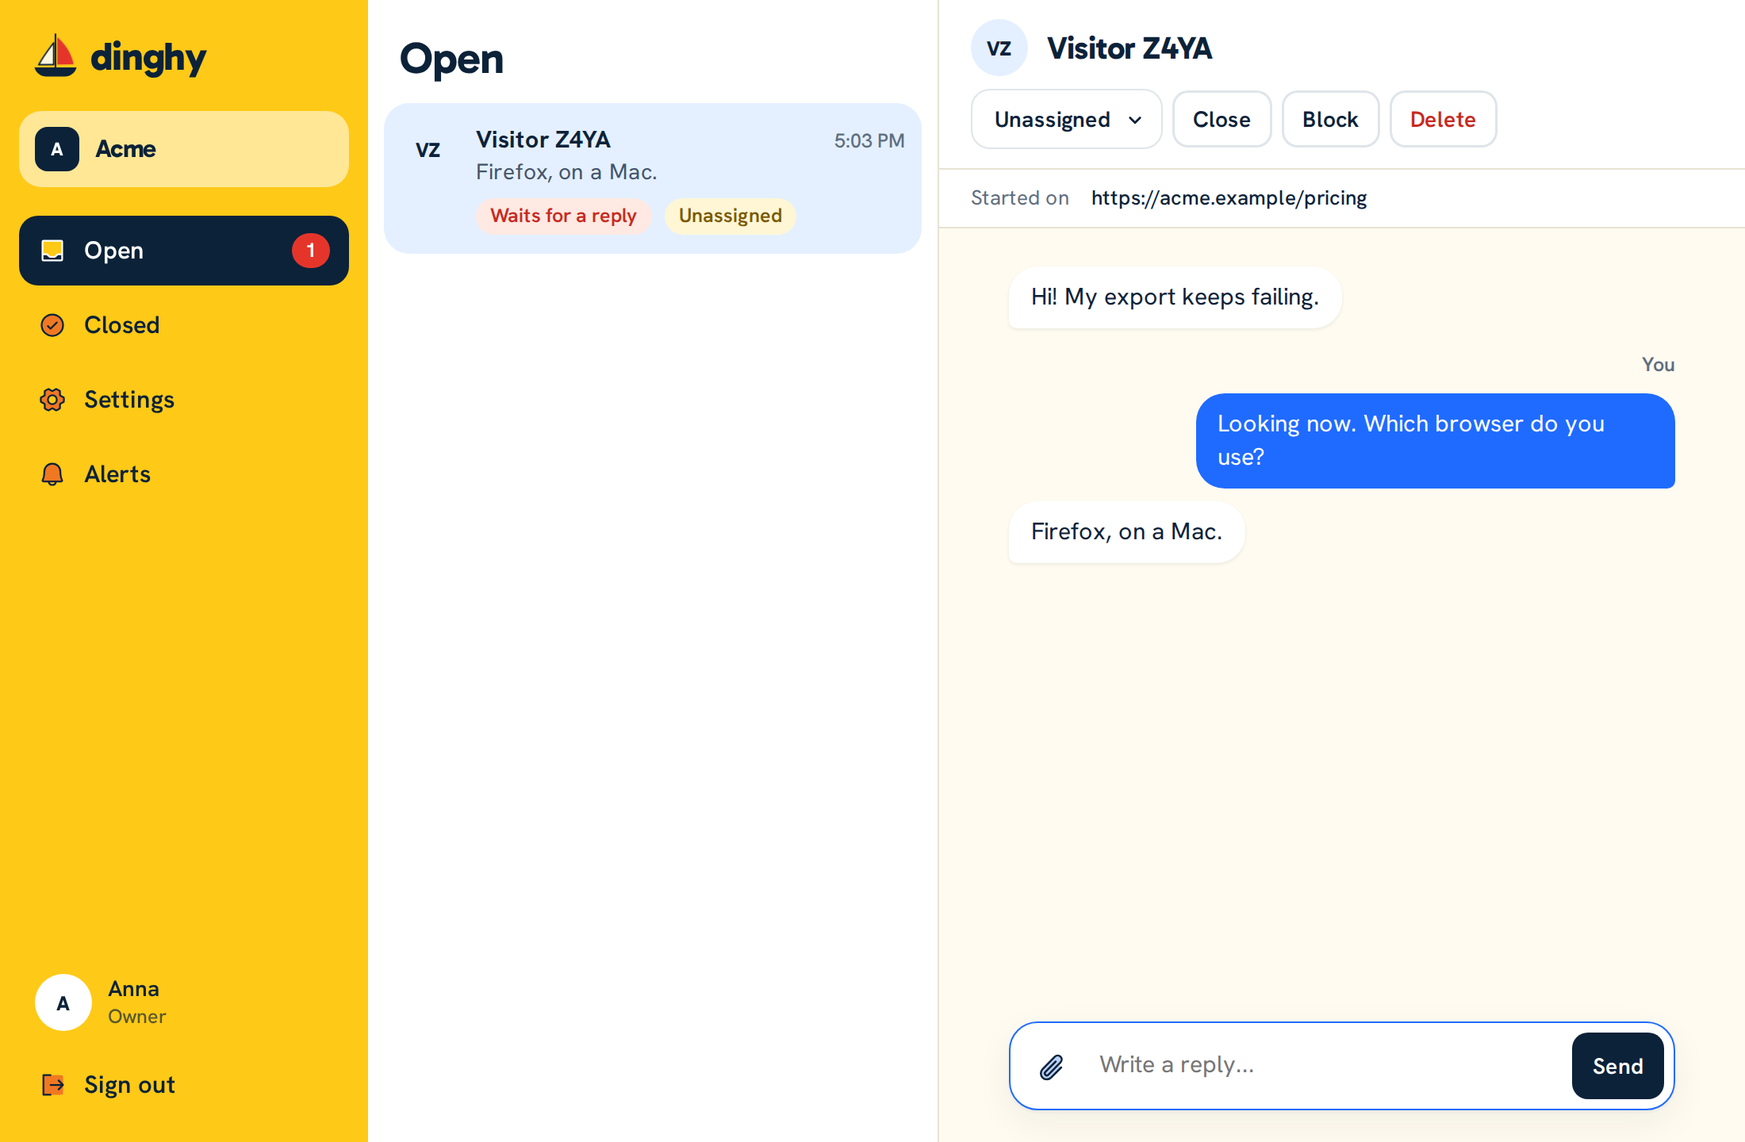
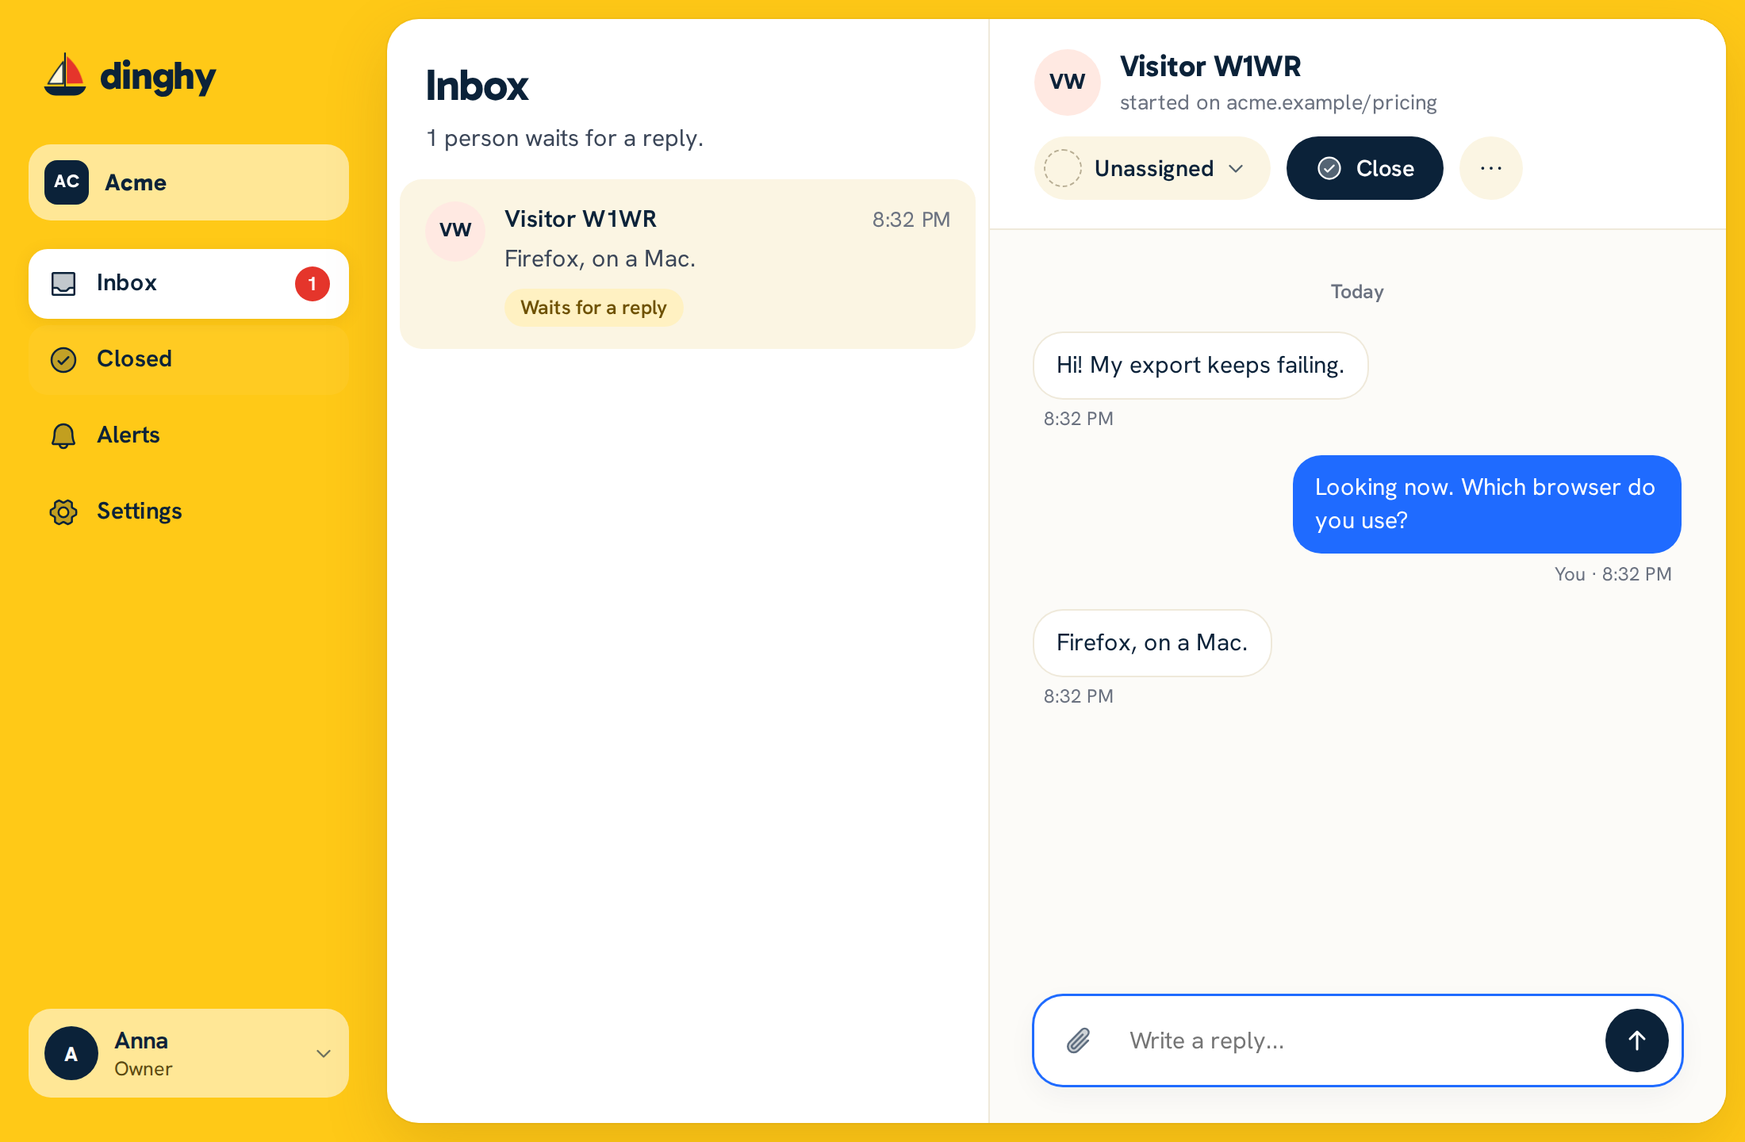
Docs: describe the new screens, with new pictures

diff --git a/site/public/docs/operator-guide.html b/site/public/docs/operator-guide.html
@@ -4,21 +4,21 @@
   <meta charset="utf-8">
   <meta name="viewport" content="width=device-width, initial-scale=1">
   <title>Operator guide: Dinghy docs</title>
-  <meta name="description" content="The operator app is where your team reads and answers chats. Open your Dinghy address in a browser, enter your email, and select Email me a sign-in link. Open the link in the email, and select Sign in to Dinghy. The link works once, for 15 minutes, and only the button uses it, so a mail scanner that opens it first does no harm. Dinghy has no passwords.">
+  <meta name="description" content="The operator app is where your team reads and answers chats. Open your Dinghy address in a browser, enter your email, and select Email me a sign-in link. Open the link in the email, and select Sign in. The link works once, for 15 minutes, and only the button uses it, so a mail scanner that opens it first does no harm. Dinghy has no passwords.">
   <link rel="canonical" href="https://dinghy.chat/docs/operator-guide">
   <meta name="theme-color" content="#ffc917">
   <meta property="og:type" content="website">
   <meta property="og:site_name" content="Dinghy">
   <meta property="og:url" content="https://dinghy.chat/docs/operator-guide">
   <meta property="og:title" content="Operator guide: Dinghy docs">
-  <meta property="og:description" content="The operator app is where your team reads and answers chats. Open your Dinghy address in a browser, enter your email, and select Email me a sign-in link. Open the link in the email, and select Sign in to Dinghy. The link works once, for 15 minutes, and only the button uses it, so a mail scanner that opens it first does no harm. Dinghy has no passwords.">
+  <meta property="og:description" content="The operator app is where your team reads and answers chats. Open your Dinghy address in a browser, enter your email, and select Email me a sign-in link. Open the link in the email, and select Sign in. The link works once, for 15 minutes, and only the button uses it, so a mail scanner that opens it first does no harm. Dinghy has no passwords.">
   <meta property="og:image" content="https://dinghy.chat/og.png">
   <meta property="og:image:width" content="1200">
   <meta property="og:image:height" content="630">
   <meta property="og:image:alt" content="A boat on the water, with the words: Live chat for solo founders and small teams.">
   <meta name="twitter:card" content="summary_large_image">
   <meta name="twitter:title" content="Operator guide: Dinghy docs">
-  <meta name="twitter:description" content="The operator app is where your team reads and answers chats. Open your Dinghy address in a browser, enter your email, and select Email me a sign-in link. Open the link in the email, and select Sign in to Dinghy. The link works once, for 15 minutes, and only the button uses it, so a mail scanner that opens it first does no harm. Dinghy has no passwords.">
+  <meta name="twitter:description" content="The operator app is where your team reads and answers chats. Open your Dinghy address in a browser, enter your email, and select Email me a sign-in link. Open the link in the email, and select Sign in. The link works once, for 15 minutes, and only the button uses it, so a mail scanner that opens it first does no harm. Dinghy has no passwords.">
   <meta name="twitter:image" content="https://dinghy.chat/og.png">
   <link rel="icon" href="/favicon.svg" type="image/svg+xml">
   <link rel="preload" href="/fonts/gabarito-latin-wght-normal.woff2" as="font" type="font/woff2" crossorigin>
@@ -51,7 +51,7 @@
       <div class="docs-grid docs-band-grid">
         <div class="docs-band-text">
           <h1>Use the operator app</h1>
-          <p class="lede">The operator app is where your team reads and answers chats. Open your Dinghy address in a browser, enter your email, and select <strong>Email me a sign-in link</strong>. Open the link in the email, and select <strong>Sign in to Dinghy</strong>. The link works once, for 15 minutes, and only the button uses it, so a mail scanner that opens it first does no harm. Dinghy has no passwords.</p>
+          <p class="lede">The operator app is where your team reads and answers chats. Open your Dinghy address in a browser, enter your email, and select <strong>Email me a sign-in link</strong>. Open the link in the email, and select <strong>Sign in</strong>. The link works once, for 15 minutes, and only the button uses it, so a mail scanner that opens it first does no harm. Dinghy has no passwords.</p>
         </div>
       </div>
       <div class="water docs-water" data-scene="band" aria-hidden="true">
@@ -118,18 +118,18 @@
       <article class="doc">
 <p><img src="/docs/media/inbox.png" width="2200" height="1440" alt="The operator app with a conversation open" loading="lazy"></p>
 <h2 id="answer-a-chat"><a class="heading-link" href="#answer-a-chat">Answer a chat</a></h2>
-<p>New conversations appear in the <strong>Open</strong> list with no reload. Select one to read it, write in the reply box, and press <strong>Send</strong>.</p>
+<p>The sidebar has <strong>Inbox</strong>, <strong>Closed</strong>, <strong>Alerts</strong> and <strong>Settings</strong>. New conversations appear in the <strong>Inbox</strong> with no reload, and the red number counts the people who wait for a reply. Select one to read it, write in the reply box, and press Enter or the send button.</p>
 <p>To send an image, paste it, drag it onto the chat, or select the image button. The rules are the same as for visitors: PNG, JPEG or WebP, under 5 MB and under 16 megapixels.</p>
 <p>If a message shows &quot;Not sent&quot;, select it to try again. A retry cannot create a second copy.</p>
 <p>If two of you open the same conversation, each sees &quot;… is replying&quot;, so you do not answer twice.</p>
-<p>In a conversation, you can also:</p>
+<p>Under the visitor&#39;s name, the header shows their user ID and the page where they started. On the right are the controls:</p>
 <div class="doc-table"><table>
 <thead><tr><th>Control</th><th>What it does</th></tr></thead>
 <tbody>
-<tr><td data-label="Control"><strong>Assign to</strong></td><td data-label="What it does">A list that gives the conversation to one person on your team</td></tr>
+<tr><td data-label="Control">The assignee</td><td data-label="What it does">A list that gives the conversation to one person on your team, or to nobody</td></tr>
 <tr><td data-label="Control"><strong>Close</strong></td><td data-label="What it does">Moves it to the <strong>Closed</strong> list. <strong>Reopen</strong> brings it back. If the visitor writes after a close, this starts a new conversation with no assignee, and the visitor sees one thread</td></tr>
-<tr><td data-label="Control"><strong>Block</strong></td><td data-label="What it does">Stops this visitor from sending messages. <strong>Settings &gt; Blocked visitors</strong>, which appears once someone is blocked, can undo it</td></tr>
-<tr><td data-label="Control"><strong>Delete</strong></td><td data-label="What it does">Deletes the conversation and its images for good. Owners and admins only</td></tr>
+<tr><td data-label="Control"><strong>…</strong> then <strong>Block</strong></td><td data-label="What it does">Stops this visitor from sending messages. <strong>Unblock</strong> in the same place undoes it, and so does <strong>Settings &gt; Data &gt; Blocked visitors</strong></td></tr>
+<tr><td data-label="Control"><strong>…</strong> then <strong>Delete</strong></td><td data-label="What it does">Deletes the conversation and its images for good, after you confirm. Owners and admins only</td></tr>
 </tbody>
 </table></div>
 <p>For a signed-in user, the conversation shows the email and user ID that <a href="/docs/add-to-your-site#show-who-is-chatting">your site sent</a>.</p>
@@ -147,10 +147,12 @@
 </ol>
 <p>On Android and on a computer, you can install the app from the browser&#39;s menu, but it is not necessary.</p>
 <p>A phone can delay or drop a notification, so do not rely on one for urgent work.</p>
+<h2 id="your-profile"><a class="heading-link" href="#your-profile">Your profile</a></h2>
+<p>Select your name at the bottom of the sidebar, then <strong>Profile</strong>, to change the name your teammates see. <strong>Sign out</strong> is in the same menu.</p>
 <h2 id="set-up-your-team"><a class="heading-link" href="#set-up-your-team">Set up your team</a></h2>
 <p><img src="/docs/media/settings.png" width="2200" height="1440" alt="The settings page" loading="lazy"></p>
-<p>Everyone can open <strong>Settings</strong>. An agent sees the team and the blocked visitors, and the other sections are for owners and admins.</p>
-<p>To invite someone, select <strong>Create a link</strong> in <strong>Invite someone</strong>, and send the link to that one person. A link works once and lasts 7 days. The person opens it, and enters a name and an email. Dinghy emails them a link, and selecting <strong>Join your team</strong> on the page it opens creates their account, or uses the one that email already has, joins the workspace and signs them in. Someone who is already signed in selects <strong>Join</strong>. Without a mail server, a new person signs in at once, and nothing checks the email, so send the link only to the person it is for. Someone who already has an account there signs in first, then opens the invite.</p>
+<p>Everyone can open <strong>Settings</strong>. Its tabs are <strong>Team</strong>, <strong>Install</strong>, <strong>Allowed sites</strong>, <strong>Signing secret</strong> and <strong>Data</strong>. An agent sees the team, and the blocked visitors under <strong>Data</strong> once someone is blocked. The other tabs are for owners and admins.</p>
+<p>To invite someone, select <strong>Invite someone</strong> at the top of Settings, pick a role, select <strong>Create invite link</strong>, and send the link to that one person. Pending invites show in the team list until they are used, with the days they have left and <strong>Revoke</strong>. A link works once and lasts 7 days. The person opens it, and enters a name and an email. Dinghy emails them a link, and selecting <strong>Join your team</strong> on the page it opens creates their account, or uses the one that email already has, joins the workspace and signs them in. Someone who is already signed in selects <strong>Join</strong>. Without a mail server, a new person signs in at once, and nothing checks the email, so send the link only to the person it is for. Someone who already has an account there signs in first, then opens the invite.</p>
 <div class="doc-table"><table>
 <thead><tr><th>Role</th><th>Can do</th></tr></thead>
 <tbody>
@@ -159,14 +161,15 @@
 <tr><td data-label="Role"><strong>Owner</strong></td><td data-label="Can do">The above, and invite admins, change roles, and download exports</td></tr>
 </tbody>
 </table></div>
-<p>A workspace needs an owner, so make someone else owner before you leave.</p>
-<p>Someone in two workspaces can switch between them at the top of the app.</p>
+<p>A workspace always keeps an owner. While you are the only one, your role stays <strong>Owner</strong> and you cannot leave: make someone else an owner first.</p>
+<p>Someone in two workspaces switches between them with the workspace name at the top of the sidebar. On Dinghy Cloud, the same menu has <strong>Create a workspace</strong>.</p>
 <h2 id="the-other-settings"><a class="heading-link" href="#the-other-settings">The other settings</a></h2>
 <ul>
-<li><strong>Widget snippet</strong> has the tag for your site.</li>
-<li><strong>Allowed sites</strong> lists the sites that can load the chat.</li>
-<li><strong>Signing secret</strong> is for <a href="/docs/add-to-your-site#show-who-is-chatting">signed-in users</a>.</li>
-<li><strong>Export</strong> downloads all conversations and images as one file, which imports into a self-hosted Dinghy.</li>
+<li><strong>Install</strong> has the tag for your site, with a <strong>Copy</strong> button.</li>
+<li><strong>Allowed sites</strong> lists the sites that can load the chat, one per row. <strong>Add a site</strong> adds a row, and each row says if its address is not a site such as <code>https://example.com</code>.</li>
+<li><strong>Signing secret</strong> is for <a href="/docs/add-to-your-site#show-who-is-chatting">signed-in users</a>. It stays hidden until you select the eye. <strong>Replace the secret</strong> asks first, because the old one stops working at once.</li>
+<li><strong>Data</strong> has <strong>Download an export</strong>, which saves all conversations and images as one file that imports into a self-hosted Dinghy, and <strong>Delete workspace</strong>.</li>
+<li>On Dinghy Cloud, <strong>Team</strong> also shows how many of the plan&#39;s 5 operators and 1 GB of images are in use.</li>
 </ul>
 <h2 id="if-no-sign-in-link-arrives"><a class="heading-link" href="#if-no-sign-in-link-arrives">If no sign-in link arrives</a></h2>
 <p>Check your spam folder, and ask for another link. Each one works once, for 15 minutes, and an email gets at most 20 links an hour.</p>
@@ -181,6 +184,7 @@
         <ol>
           <li><a href="#answer-a-chat">Answer a chat</a></li>
           <li><a href="#get-alerts">Get alerts</a></li>
+          <li><a href="#your-profile">Your profile</a></li>
           <li><a href="#set-up-your-team">Set up your team</a></li>
           <li><a href="#the-other-settings">The other settings</a></li>
           <li><a href="#if-no-sign-in-link-arrives">If no sign-in link arrives</a></li>

diff --git a/docs/operator-guide.md b/docs/operator-guide.md
@@ -1,12 +1,12 @@
 # Use the operator app
 
-The operator app is where your team reads and answers chats. Open your Dinghy address in a browser, enter your email, and select **Email me a sign-in link**. Open the link in the email, and select **Sign in to Dinghy**. The link works once, for 15 minutes, and only the button uses it, so a mail scanner that opens it first does no harm. Dinghy has no passwords.
+The operator app is where your team reads and answers chats. Open your Dinghy address in a browser, enter your email, and select **Email me a sign-in link**. Open the link in the email, and select **Sign in**. The link works once, for 15 minutes, and only the button uses it, so a mail scanner that opens it first does no harm. Dinghy has no passwords.
 
 ![The operator app with a conversation open](media/inbox.png)
 
 ## Answer a chat
 
-New conversations appear in the **Open** list with no reload. Select one to read it, write in the reply box, and press **Send**.
+The sidebar has **Inbox**, **Closed**, **Alerts** and **Settings**. New conversations appear in the **Inbox** with no reload, and the red number counts the people who wait for a reply. Select one to read it, write in the reply box, and press Enter or the send button.
 
 To send an image, paste it, drag it onto the chat, or select the image button. The rules are the same as for visitors: PNG, JPEG or WebP, under 5 MB and under 16 megapixels.
 
@@ -14,14 +14,14 @@ If a message shows "Not sent", select it to try again. A retry cannot create a s
 
 If two of you open the same conversation, each sees "… is replying", so you do not answer twice.
 
-In a conversation, you can also:
+Under the visitor's name, the header shows their user ID and the page where they started. On the right are the controls:
 
 | Control | What it does |
 |---|---|
-| **Assign to** | A list that gives the conversation to one person on your team |
+| The assignee | A list that gives the conversation to one person on your team, or to nobody |
 | **Close** | Moves it to the **Closed** list. **Reopen** brings it back. If the visitor writes after a close, this starts a new conversation with no assignee, and the visitor sees one thread |
-| **Block** | Stops this visitor from sending messages. **Settings > Blocked visitors**, which appears once someone is blocked, can undo it |
-| **Delete** | Deletes the conversation and its images for good. Owners and admins only |
+| **…** then **Block** | Stops this visitor from sending messages. **Unblock** in the same place undoes it, and so does **Settings > Data > Blocked visitors** |
+| **…** then **Delete** | Deletes the conversation and its images for good, after you confirm. Owners and admins only |
 
 For a signed-in user, the conversation shows the email and user ID that [your site sent](add-to-your-site.md#show-who-is-chatting).
 
@@ -42,13 +42,17 @@ On Android and on a computer, you can install the app from the browser's menu, b
 
 A phone can delay or drop a notification, so do not rely on one for urgent work.
 
+## Your profile
+
+Select your name at the bottom of the sidebar, then **Profile**, to change the name your teammates see. **Sign out** is in the same menu.
+
 ## Set up your team
 
 ![The settings page](media/settings.png)
 
-Everyone can open **Settings**. An agent sees the team and the blocked visitors, and the other sections are for owners and admins.
+Everyone can open **Settings**. Its tabs are **Team**, **Install**, **Allowed sites**, **Signing secret** and **Data**. An agent sees the team, and the blocked visitors under **Data** once someone is blocked. The other tabs are for owners and admins.
 
-To invite someone, select **Create a link** in **Invite someone**, and send the link to that one person. A link works once and lasts 7 days. The person opens it, and enters a name and an email. Dinghy emails them a link, and selecting **Join your team** on the page it opens creates their account, or uses the one that email already has, joins the workspace and signs them in. Someone who is already signed in selects **Join**. Without a mail server, a new person signs in at once, and nothing checks the email, so send the link only to the person it is for. Someone who already has an account there signs in first, then opens the invite.
+To invite someone, select **Invite someone** at the top of Settings, pick a role, select **Create invite link**, and send the link to that one person. Pending invites show in the team list until they are used, with the days they have left and **Revoke**. A link works once and lasts 7 days. The person opens it, and enters a name and an email. Dinghy emails them a link, and selecting **Join your team** on the page it opens creates their account, or uses the one that email already has, joins the workspace and signs them in. Someone who is already signed in selects **Join**. Without a mail server, a new person signs in at once, and nothing checks the email, so send the link only to the person it is for. Someone who already has an account there signs in first, then opens the invite.
 
 | Role | Can do |
 |---|---|
@@ -56,16 +60,17 @@ To invite someone, select **Create a link** in **Invite someone**, and send the 
 | **Admin** | The above, and delete conversations, change settings, and invite or remove agents |
 | **Owner** | The above, and invite admins, change roles, and download exports |
 
-A workspace needs an owner, so make someone else owner before you leave.
+A workspace always keeps an owner. While you are the only one, your role stays **Owner** and you cannot leave: make someone else an owner first.
 
-Someone in two workspaces can switch between them at the top of the app.
+Someone in two workspaces switches between them with the workspace name at the top of the sidebar. On Dinghy Cloud, the same menu has **Create a workspace**.
 
 ## The other settings
 
-- **Widget snippet** has the tag for your site.
-- **Allowed sites** lists the sites that can load the chat.
-- **Signing secret** is for [signed-in users](add-to-your-site.md#show-who-is-chatting).
-- **Export** downloads all conversations and images as one file, which imports into a self-hosted Dinghy.
+- **Install** has the tag for your site, with a **Copy** button.
+- **Allowed sites** lists the sites that can load the chat, one per row. **Add a site** adds a row, and each row says if its address is not a site such as `https://example.com`.
+- **Signing secret** is for [signed-in users](add-to-your-site.md#show-who-is-chatting). It stays hidden until you select the eye. **Replace the secret** asks first, because the old one stops working at once.
+- **Data** has **Download an export**, which saves all conversations and images as one file that imports into a self-hosted Dinghy, and **Delete workspace**.
+- On Dinghy Cloud, **Team** also shows how many of the plan's 5 operators and 1 GB of images are in use.
 
 ## If no sign-in link arrives
 

diff --git a/CHANGELOG.md b/CHANGELOG.md
@@ -2,6 +2,15 @@
 
 Each release says what changed and what an owner must do. To move Postgres to a new major version, a release says so, and `docs/self-hosting.md` has the steps.
 
+## Unreleased
+
+- A new look for the operator app, in the brand's yellow: a sidebar with **Inbox**, **Closed**, **Alerts** and **Settings**, and one white panel with a title, a line of context and the page's actions.
+- Every dropdown is the app's own, with full keyboard use. The conversation header shows the user ID and the starting page under the name, and **Block** and **Delete** moved to its **…** menu. Each run of messages shows its time, and its author for an operator, and days are split by a line.
+- Settings has tabs: **Team**, **Install**, **Allowed sites**, **Signing secret** and **Data**. **Invite someone** opens a dialog. Allowed sites take one site per row, and the signing secret stays hidden until shown. On Dinghy Cloud, the plan's use shows as two bars.
+- **Profile** and **Sign out** moved to the menu under your name, at the bottom of the sidebar. The workspace name at the top switches workspaces, and on Dinghy Cloud creates one.
+- The app keeps a workspace's last owner: their role cannot be lowered and they cannot leave, and the app says why. The server already refused both.
+- The sign-in, link and setup screens change in place, with no page load, and their sky moves from morning to afternoon as you go. The link page names what its button does, such as **Sign in** or **Join the team**.
+
 ## 0.4.1 (2026-11-08)
 
 Follow the upgrade steps in `docs/self-hosting.md`; nothing else is needed.
